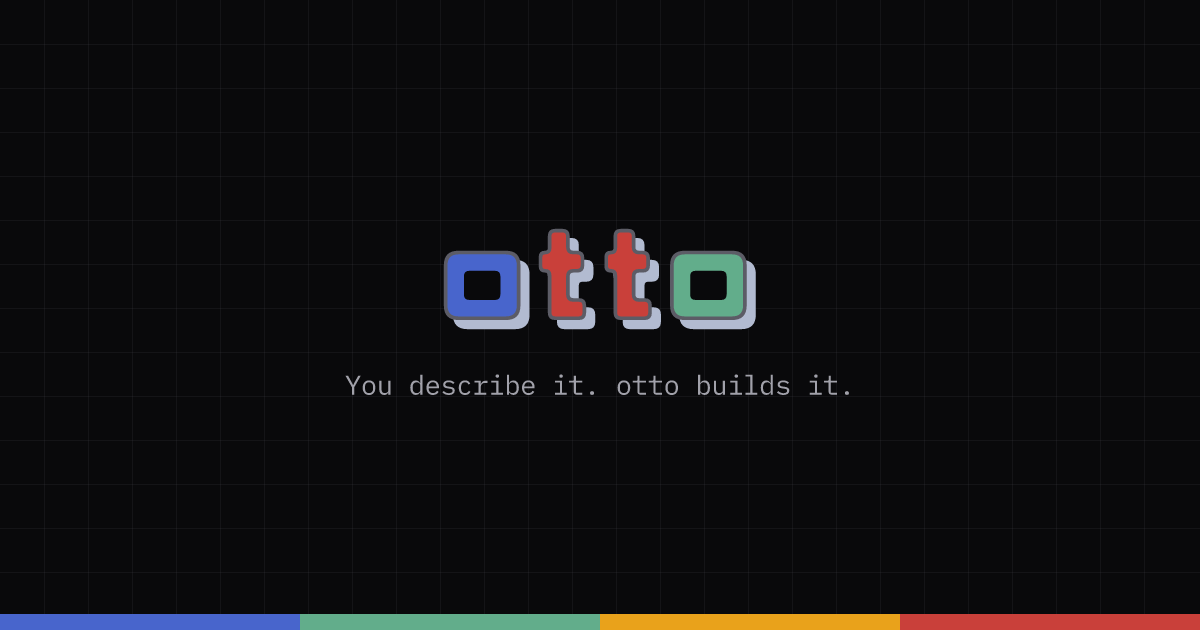
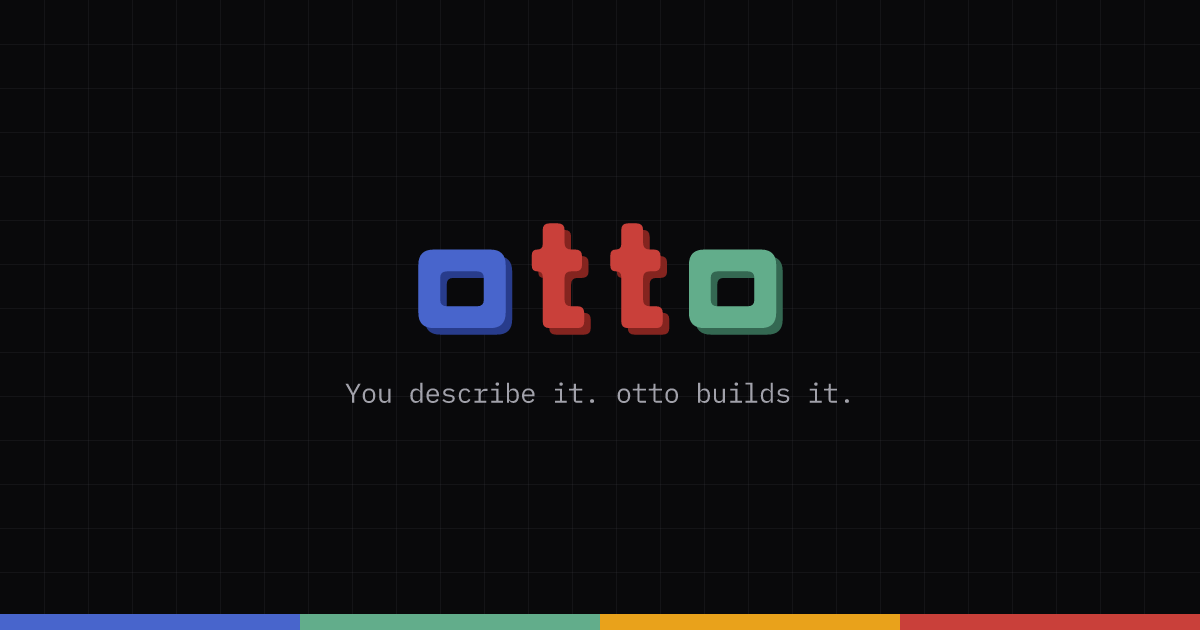
refactor(og): refine wordmark extrusion with shade palette
- Add npCast palette for extrusion shades matching design system
- Create WORDMARK_CAST mapping for per-letter shadow colors
- Update NeoWordmark rendering to use shade colors instead of shadow
- Improve documentation for extrusion technique and stroke handling
- Remove unused wordmarkShapes import in favor of WORDMARK_LETTERS

Changed region(s): [[0.3392, 0.3619, 0.6783, 0.5429], [0.2775, 0.6032, 0.7092, 0.6635]]

diff --git a/functions/og/wordmark.ts b/functions/og/wordmark.ts
@@ -2,10 +2,9 @@
  * Geometry for the custom-drawn "otto" wordmark, mirroring
  * `apps/landing/src/components/neopop/NeoOttoLogo.tsx`.
  *
- * The landing component paints with CSS custom properties and Tailwind, neither
- * of which Satori resolves, so the maths lives here too. Keep the metric grid
- * and the two glyph builders in sync with that file; the paths are emitted with
- * their offset baked in so no `transform` is needed on the rendered groups.
+ * The landing component paints with CSS custom properties, which Satori does
+ * not resolve, so the palette is re-declared on the OG side. The geometry is
+ * identical — keep the metric grid and the two glyph builders in sync.
  */
 
 type Point = [number, number];
@@ -17,9 +16,7 @@ const ASCENDER_TOP = 8;
 const WEIGHT = 10;
 const O_WIDTH = 40;
 const GAP = 12;
-
-export const WORDMARK_PAD = 2;
-export const WORDMARK_ASCENDER_TOP = ASCENDER_TOP;
+const PAD = 2;
 
 /** Crossbar sits on the x-height line so `t` and `o` share a shoulder. */
 const CROSS_TOP = X_HEIGHT_TOP;
@@ -72,54 +69,51 @@ function rect(x: number, y: number, w: number, h: number): Point[] {
 	];
 }
 
-/** Outer ring of the square-countered `o`. */
-function oOuter(x: number, dy: number): string {
-	return roundedPolygon(
-		rect(x, X_HEIGHT_TOP + dy, O_WIDTH, BASELINE - X_HEIGHT_TOP),
+/** Square-countered `o`: outer ring plus a reversed counter, drawn even-odd. */
+function oGlyph(x: number): string {
+	const outer = roundedPolygon(
+		rect(x, X_HEIGHT_TOP, O_WIDTH, BASELINE - X_HEIGHT_TOP),
 		7,
 	);
-}
-
-/** Counter of the `o`, drawn as its own shape so no fill rule is needed. */
-function oCounter(x: number, dy: number): string {
-	return roundedPolygon(
+	const counter = roundedPolygon(
 		rect(
 			x + WEIGHT,
-			X_HEIGHT_TOP + WEIGHT + dy,
+			X_HEIGHT_TOP + WEIGHT,
 			O_WIDTH - WEIGHT * 2,
 			BASELINE - X_HEIGHT_TOP - WEIGHT * 2,
 		),
 		3,
 	);
+	return `${outer} ${counter}`;
 }
 
 /**
  * Single-outline `t`: ascending stem, a short crossbar weighted to the right,
  * and an L-shaped foot that turns right on the baseline.
  */
-function tGlyph(stemX: number, dy: number): string {
+function tGlyph(stemX: number): string {
 	const stemRight = stemX + WEIGHT;
 	const barRight = stemRight + CROSS_RIGHT_ARM;
 	const barLeft = stemX - CROSS_LEFT_ARM;
 	const footRight = stemRight + FOOT_WIDTH;
-	const footTop = BASELINE - WEIGHT + dy;
+	const footTop = BASELINE - WEIGHT;
 
 	return roundedPolygon(
 		[
-			[stemX, ASCENDER_TOP + dy],
-			[stemRight, ASCENDER_TOP + dy],
-			[stemRight, CROSS_TOP + dy],
-			[barRight, CROSS_TOP + dy],
-			[barRight, CROSS_BOTTOM + dy],
-			[stemRight, CROSS_BOTTOM + dy],
+			[stemX, ASCENDER_TOP],
+			[stemRight, ASCENDER_TOP],
+			[stemRight, CROSS_TOP],
+			[barRight, CROSS_TOP],
+			[barRight, CROSS_BOTTOM],
+			[stemRight, CROSS_BOTTOM],
 			[stemRight, footTop],
 			[footRight, footTop],
-			[footRight, BASELINE + dy],
-			[stemX, BASELINE + dy],
-			[stemX, CROSS_BOTTOM + dy],
-			[barLeft, CROSS_BOTTOM + dy],
-			[barLeft, CROSS_TOP + dy],
-			[stemX, CROSS_TOP + dy],
+			[footRight, BASELINE],
+			[stemX, BASELINE],
+			[stemX, CROSS_BOTTOM],
+			[barLeft, CROSS_BOTTOM],
+			[barLeft, CROSS_TOP],
+			[stemX, CROSS_TOP],
 		],
 		3,
 	);
@@ -132,37 +126,22 @@ const T_TWO_STEM = T_ONE_RIGHT + GAP + CROSS_LEFT_ARM;
 const T_TWO_RIGHT = T_TWO_STEM + WEIGHT + Math.max(CROSS_RIGHT_ARM, FOOT_WIDTH);
 const O_TWO_X = T_TWO_RIGHT + GAP;
 
-export const WORDMARK_WIDTH = O_TWO_X + O_WIDTH;
+const WORD_WIDTH = O_TWO_X + O_WIDTH;
+
+export const WORDMARK_PAD = PAD;
+export const WORDMARK_ASCENDER_TOP = ASCENDER_TOP;
+export const WORDMARK_WIDTH = WORD_WIDTH;
 export const WORDMARK_HEIGHT = BASELINE - ASCENDER_TOP;
 
 export type WordmarkLetter = 'o1' | 't1' | 't2' | 'o2';
 
-export interface WordmarkShape {
-	key: string;
-	letter: WordmarkLetter;
+export const WORDMARK_LETTERS: Array<{
+	key: WordmarkLetter;
 	d: string;
-	/** Counters are knocked out with the page background, not a fill rule. */
-	counter: boolean;
-}
-
-/** Every shape of the wordmark, shifted by `dx`/`dy` grid units. */
-export function wordmarkShapes(dx = 0, dy = 0): WordmarkShape[] {
-	return [
-		{ key: 'o1', letter: 'o1', d: oOuter(O_ONE_X + dx, dy), counter: false },
-		{
-			key: 'o1c',
-			letter: 'o1',
-			d: oCounter(O_ONE_X + dx, dy),
-			counter: true,
-		},
-		{ key: 't1', letter: 't1', d: tGlyph(T_ONE_STEM + dx, dy), counter: false },
-		{ key: 't2', letter: 't2', d: tGlyph(T_TWO_STEM + dx, dy), counter: false },
-		{ key: 'o2', letter: 'o2', d: oOuter(O_TWO_X + dx, dy), counter: false },
-		{
-			key: 'o2c',
-			letter: 'o2',
-			d: oCounter(O_TWO_X + dx, dy),
-			counter: true,
-		},
-	];
-}
+	evenOdd: boolean;
+}> = [
+	{ key: 'o1', d: oGlyph(O_ONE_X), evenOdd: true },
+	{ key: 't1', d: tGlyph(T_ONE_STEM), evenOdd: false },
+	{ key: 't2', d: tGlyph(T_TWO_STEM), evenOdd: false },
+	{ key: 'o2', d: oGlyph(O_TWO_X), evenOdd: true },
+];

diff --git a/functions/og/index.tsx b/functions/og/index.tsx
@@ -3,10 +3,10 @@ import { Resvg } from '@resvg/resvg-js';
 import {
 	WORDMARK_ASCENDER_TOP,
 	WORDMARK_HEIGHT,
+	WORDMARK_LETTERS,
 	WORDMARK_PAD,
 	WORDMARK_WIDTH,
 	type WordmarkLetter,
-	wordmarkShapes,
 } from './wordmark';
 
 export interface OGRequest {
@@ -152,12 +152,34 @@ const np = {
 	grid: 'rgba(92,92,102,0.13)',
 };
 
-/** Per-letter palette, matching `POP_FILL` in `NeoOttoLogo`. */
+/**
+ * Shade each accent casts, matching `--np-*-cast`. Deep enough to separate
+ * from the fill, so the extrusion reads as a solid offset rather than a blur.
+ */
+const npCast = {
+	blue: '#283c8c',
+	lime: '#346852',
+	yellow: '#9e6a0c',
+	coral: '#84241f',
+};
+
+/**
+ * Per-letter palette, matching `POP_FILL` in `NeoOttoLogo`: the repeated `tt`
+ * shares one colour so the pair reads as a unit, and the two `o`s bracket the
+ * word with the primary blue and lime.
+ */
 const WORDMARK_FILL: Record<WordmarkLetter, string> = {
 	o1: np.blue,
 	t1: np.coral,
 	t2: np.coral,
 	o2: np.lime,
+};
+
+const WORDMARK_CAST: Record<WordmarkLetter, string> = {
+	o1: npCast.blue,
+	t1: npCast.coral,
+	t2: npCast.coral,
+	o2: npCast.lime,
 };
 
 const OTTO_WORDMARK_PATH =
@@ -311,9 +333,8 @@ function NeoGrid() {
 
 /**
  * The custom-drawn wordmark: every glyph painted twice, once as a hard offset
- * extrusion and once as the front face with the 2px NeoPop edge. Counters are
- * knocked out with the background rather than an even-odd fill rule, which
- * Satori does not honour.
+ * extrusion in a shade of its own fill and once as the front face. Unstroked
+ * on both layers, so the extrusion stays a clean offset rather than a halo.
  */
 function NeoWordmark({
 	height = 88,
@@ -334,30 +355,29 @@ function NeoWordmark({
 			role="img"
 			aria-label="otto"
 		>
-			{wordmarkShapes(depth, depth).map((shape) => (
-				<path
-					key={`shade-${shape.key}`}
-					d={shape.d}
-					fill={shape.counter ? np.bg : np.shadow}
-					stroke={shape.counter ? 'none' : np.shadow}
-					strokeWidth={2}
-					strokeLinejoin="round"
-				/>
-			))}
-			{wordmarkShapes().map((shape) => (
-				<path
-					key={`face-${shape.key}`}
-					d={shape.d}
-					fill={shape.counter ? np.bg : WORDMARK_FILL[shape.letter]}
-					stroke={shape.counter ? 'none' : np.border}
-					strokeWidth={2}
-					strokeLinejoin="round"
-				/>
-			))}
+			<g transform={`translate(${depth} ${depth})`} stroke="none">
+				{WORDMARK_LETTERS.map((letter) => (
+					<path
+						key={`shade-${letter.key}`}
+						d={letter.d}
+						fill={WORDMARK_CAST[letter.key]}
+						fillRule={letter.evenOdd ? 'evenodd' : 'nonzero'}
+					/>
+				))}
+			</g>
+			<g stroke="none">
+				{WORDMARK_LETTERS.map((letter) => (
+					<path
+						key={`face-${letter.key}`}
+						d={letter.d}
+						fill={WORDMARK_FILL[letter.key]}
+						fillRule={letter.evenOdd ? 'evenodd' : 'nonzero'}
+					/>
+				))}
+			</g>
 		</svg>
 	);
 }
-
 export function renderLandingOG() {
 	return (
 		<div
@@ -377,7 +397,8 @@ export function renderLandingOG() {
 		>
 			<NeoGrid />
 
-			<NeoWordmark height={104} />
+			{/* Depth matches the hero's default, so the mark reads identically. */}
+			<NeoWordmark height={120} depth={3} />
 
 			<div
 				style={{
